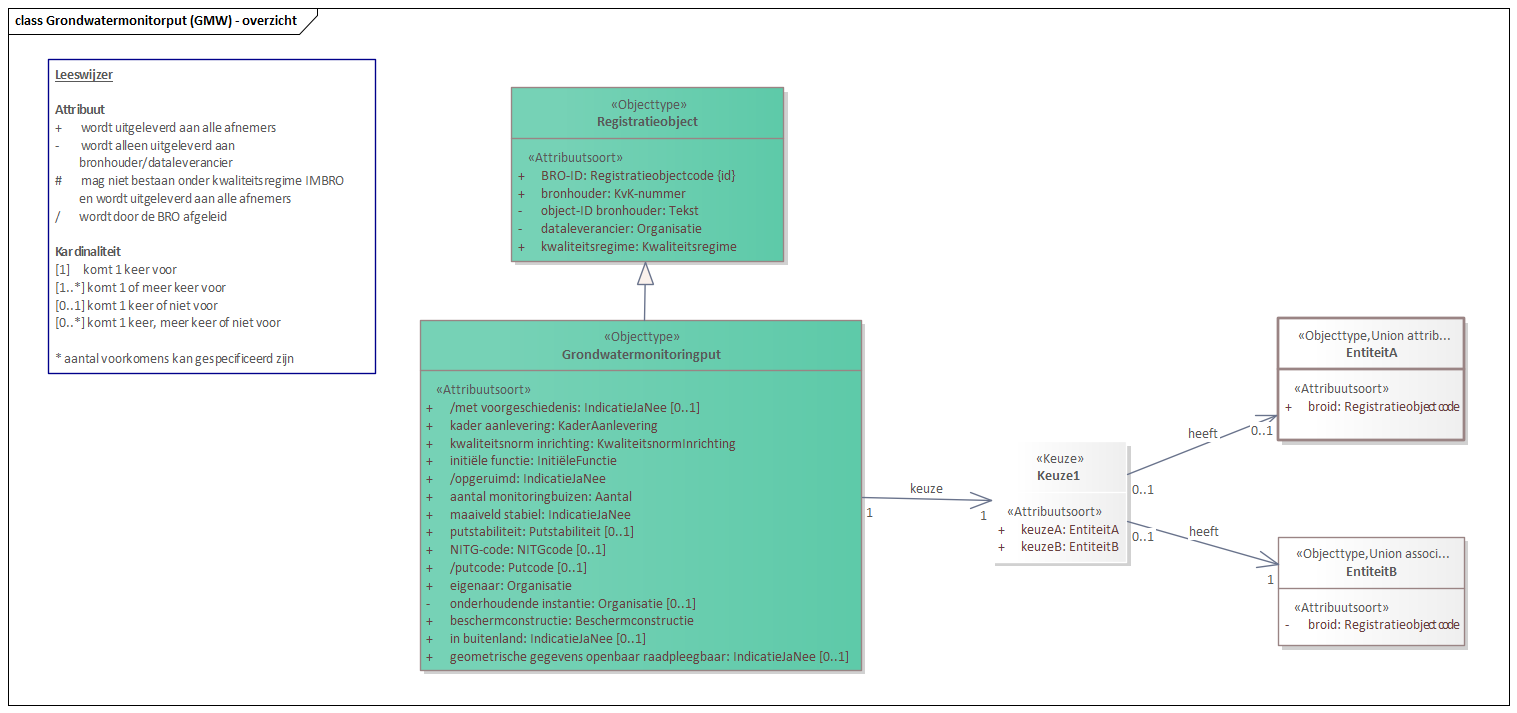
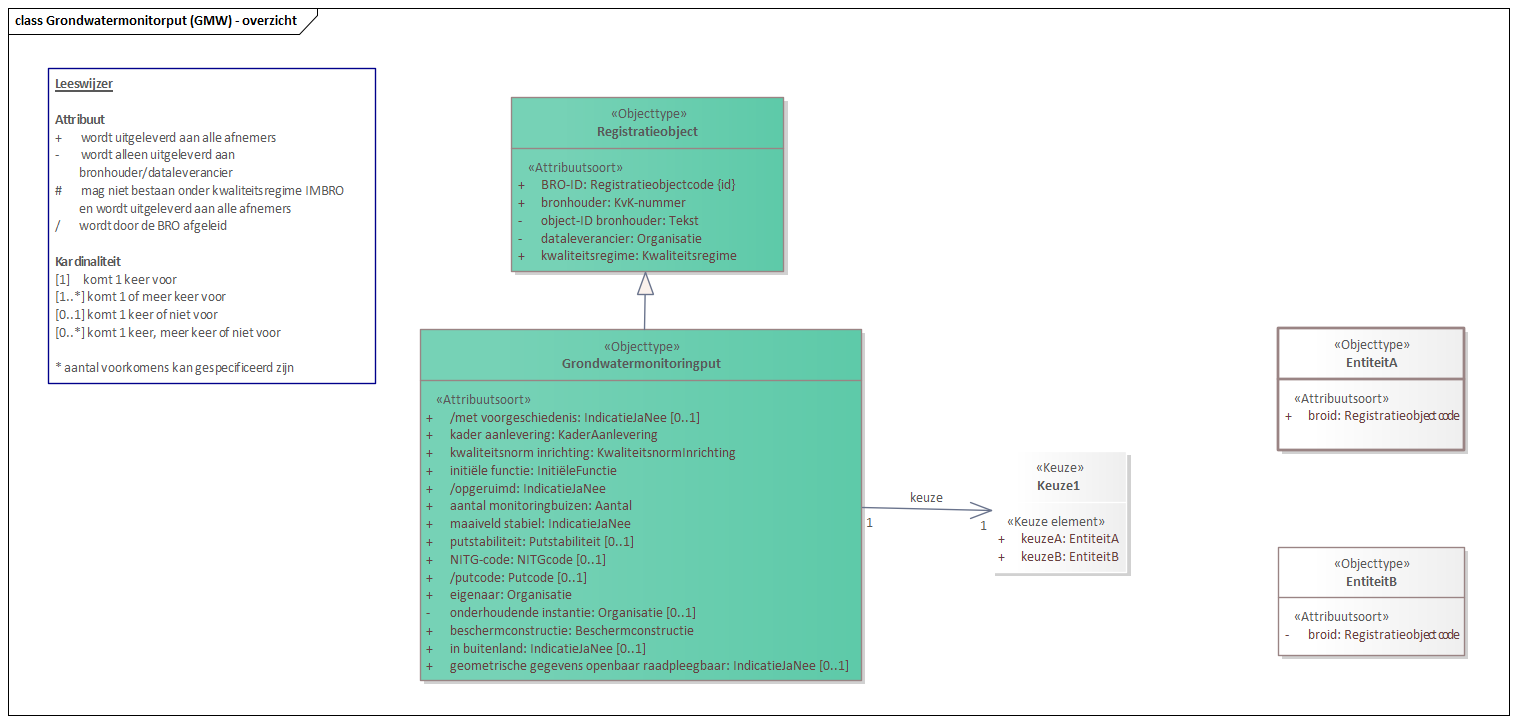
Conceptualmodel-GMWTestModelleringKeuzeVersieYke-1.0-1-20240131-20240306-100637

diff --git a/data/SAMPLE1-cat.msword.html b/data/SAMPLE1-cat.msword.html
@@ -15,7 +15,7 @@
    <body>
       <p>Conceptual model/GMW Test Modellering Keuze Versie Yke/20240131</p>
       <p>Imvertor: Nightly-build.13</p>
-      <p>Model release: Conceptualmodel-GMWTestModelleringKeuzeVersieYke-1.0-1-20240131-20240306-093050</p>
+      <p>Model release: Conceptualmodel-GMWTestModelleringKeuzeVersieYke-1.0-1-20240131-20240306-100637</p>
       <hr>
       <section>
          <h1>Artikel 1 Definitie van registratieobject, entiteiten en attributen</h1>
@@ -63,7 +63,7 @@
          <section>
             <h2>Het domeinmodel</h2>
             <section>
-               <div class="imageinfo overview"><img src="Images/EAID_C9AEDACB_CD09_4aa8_8B6A_A197B72070D2.png" usemap="#imagemap-EAID_C9AEDACB_CD09_4aa8_8B6A_A197B72070D2" alt="Diagram &#xA;                        &#xA;                     "><map name="imagemap-EAID_C9AEDACB_CD09_4aa8_8B6A_A197B72070D2"><area shape="rect" alt="EntiteitB" coords="1278,537,1465,646" href="#global_class_Model_EntiteitB"><area shape="rect" alt="EntiteitA" coords="1278,318,1465,441" href="#global_class_Model_EntiteitA"><area shape="rect" alt="Keuze1" coords="991,441,1127,563" href="#global_class_Model_Keuze1"><area shape="rect" alt="Registratieobject" coords="511,87,784,262" href="#global_class_Model_Registratieobject"><area shape="rect" alt="Grondwatermonitoringput" coords="420,320,862,671" href="#global_class_Model_Grondwatermonitoringput"></map><p><b>Grondwatermonitorput (GMW)</b></p>
+               <div class="imageinfo overview"><img src="Images/EAID_C9AEDACB_CD09_4aa8_8B6A_A197B72070D2.png" usemap="#imagemap-EAID_C9AEDACB_CD09_4aa8_8B6A_A197B72070D2" alt="Diagram &#xA;                        &#xA;                     "><map name="imagemap-EAID_C9AEDACB_CD09_4aa8_8B6A_A197B72070D2"><area shape="rect" alt="EntiteitB" coords="1278,547,1465,656" href="#global_class_Model_EntiteitB"><area shape="rect" alt="EntiteitA" coords="1278,328,1465,451" href="#global_class_Model_EntiteitA"><area shape="rect" alt="Keuze1" coords="991,451,1127,573" href="#global_class_Model_Keuze1"><area shape="rect" alt="Registratieobject" coords="511,97,784,272" href="#global_class_Model_Registratieobject"><area shape="rect" alt="Grondwatermonitoringput" coords="420,329,862,681" href="#global_class_Model_Grondwatermonitoringput"></map><p><b>Grondwatermonitorput (GMW)</b></p>
                </div>
             </section>
          </section>
@@ -1386,10 +1386,6 @@
                            <th>Type gegeven</th>
                            <td>Entiteit</td>
                         </tr>
-                        <tr>
-                           <th>Definitie</th>
-                           <td>MogelijkheidB</td>
-                        </tr>
                      </tbody>
                   </table>
                   <section id="detail_attribute_Model_EntiteitB_broid">
@@ -1506,6 +1502,34 @@
                         </tr>
                      </tbody>
                   </table>
+                  <section id="detail_attribute_Model_Keuze1_keuzeA">
+                     <h4>  keuzeA</h4>
+                     
+                     <table style="width: 100%;">
+                        <colgroup style="width: 30%;"></colgroup>
+                        <colgroup style="width: 70%;"></colgroup>
+                        <tbody>
+                           <tr>
+                              <th>Type gegeven</th>
+                              <td>Keuze element van Keuze1</td>
+                           </tr>
+                        </tbody>
+                     </table>
+                     </section>
+                  <section id="detail_attribute_Model_Keuze1_keuzeB">
+                     <h4>  keuzeB</h4>
+                     
+                     <table style="width: 100%;">
+                        <colgroup style="width: 30%;"></colgroup>
+                        <colgroup style="width: 70%;"></colgroup>
+                        <tbody>
+                           <tr>
+                              <th>Type gegeven</th>
+                              <td>Keuze element van Keuze1</td>
+                           </tr>
+                        </tbody>
+                     </table>
+                     </section>
                </section>
             </section>
          </section>

diff --git a/data/SAMPLE1-cat.respec.html b/data/SAMPLE1-cat.respec.html
@@ -41,7 +41,7 @@
       </section>
    <section>
       <h2>Het domeinmodel   </h2>
-      <div class="imageinfo overview"><img src="data/Images/EAID_C9AEDACB_CD09_4aa8_8B6A_A197B72070D2.png" usemap="#imagemap-EAID_C9AEDACB_CD09_4aa8_8B6A_A197B72070D2" alt="Diagram &#xA;                        &#xA;                     "><map name="imagemap-EAID_C9AEDACB_CD09_4aa8_8B6A_A197B72070D2"><area shape="rect" alt="EntiteitB" coords="1278,537,1465,646" href="#global_class_Model_EntiteitB"><area shape="rect" alt="EntiteitA" coords="1278,318,1465,441" href="#global_class_Model_EntiteitA"><area shape="rect" alt="Keuze1" coords="991,441,1127,563" href="#global_class_Model_Keuze1"><area shape="rect" alt="Registratieobject" coords="511,87,784,262" href="#global_class_Model_Registratieobject"><area shape="rect" alt="Grondwatermonitoringput" coords="420,320,862,671" href="#global_class_Model_Grondwatermonitoringput"></map><p><b>Grondwatermonitorput (GMW)</b></p>
+      <div class="imageinfo overview"><img src="data/Images/EAID_C9AEDACB_CD09_4aa8_8B6A_A197B72070D2.png" usemap="#imagemap-EAID_C9AEDACB_CD09_4aa8_8B6A_A197B72070D2" alt="Diagram &#xA;                        &#xA;                     "><map name="imagemap-EAID_C9AEDACB_CD09_4aa8_8B6A_A197B72070D2"><area shape="rect" alt="EntiteitB" coords="1278,547,1465,656" href="#global_class_Model_EntiteitB"><area shape="rect" alt="EntiteitA" coords="1278,328,1465,451" href="#global_class_Model_EntiteitA"><area shape="rect" alt="Keuze1" coords="991,451,1127,573" href="#global_class_Model_Keuze1"><area shape="rect" alt="Registratieobject" coords="511,97,784,272" href="#global_class_Model_Registratieobject"><area shape="rect" alt="Grondwatermonitoringput" coords="420,329,862,681" href="#global_class_Model_Grondwatermonitoringput"></map><p><b>Grondwatermonitorput (GMW)</b></p>
       </div>
    </section>
    <section>
@@ -1362,10 +1362,6 @@
                   <th>Type gegeven</th>
                   <td>Entiteit</td>
                </tr>
-               <tr>
-                  <th>Definitie</th>
-                  <td>MogelijkheidB</td>
-               </tr>
             </tbody>
          </table>
          <section id="detail_attribute_Model_EntiteitB_broid">
@@ -1482,6 +1478,34 @@
                </tr>
             </tbody>
          </table>
+         <section id="detail_attribute_Model_Keuze1_keuzeA">
+            <h4>  keuzeA</h4>
+            
+            <table style="width: 100%;">
+               <colgroup style="width: 30%;"></colgroup>
+               <colgroup style="width: 70%;"></colgroup>
+               <tbody>
+                  <tr>
+                     <th>Type gegeven</th>
+                     <td>Keuze element van Keuze1</td>
+                  </tr>
+               </tbody>
+            </table>
+            </section>
+         <section id="detail_attribute_Model_Keuze1_keuzeB">
+            <h4>  keuzeB</h4>
+            
+            <table style="width: 100%;">
+               <colgroup style="width: 30%;"></colgroup>
+               <colgroup style="width: 70%;"></colgroup>
+               <tbody>
+                  <tr>
+                     <th>Type gegeven</th>
+                     <td>Keuze element van Keuze1</td>
+                  </tr>
+               </tbody>
+            </table>
+            </section>
       </section>
    </section>
 </section><section>
